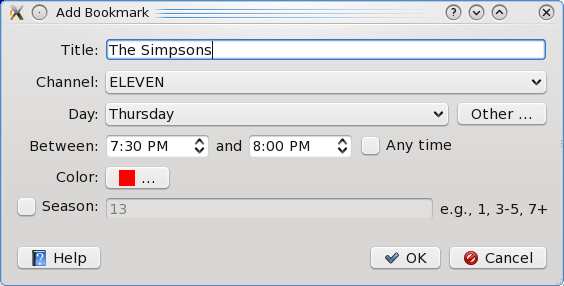
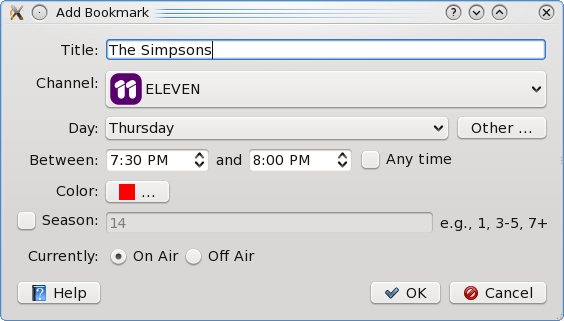
On-air/off-air indication in bookmarks

diff --git a/help/en/bookmarks.html b/help/en/bookmarks.html
@@ -73,20 +73,27 @@ Combined with the <b>7 Day Bookmark Outlook</b> feature,
 partial matches can make it easier to locate a show after it
 has moved to a different channel, day, or time.<p>
 
-<b>Show Failed Matches</b> on the <b>Bookmarks</b> menu will
-show bookmarks that fail to match the programme exactly with a
-strike-through of the bookmark's show title.  This can be used
-to notice when a show is no longer playing or it may have moved
-to another channel, day, or time:<p>
+If the bookmark is marked as <b>On Air</b> and the programme is
+no longer shown in its bookmarked timeslot, then the programme
+will be shown with a strike-through of the bookmark's show title:<p>
 
 <center>
 <img src="bookmark_failed.png">
 </center><p>
 
+You can look for partial matches to see if the show has moved
+to another channel or time.  If it has moved, then update the
+bookmark to reflect the new details.  If however the show is
+no longer on, but may return at a later date, then change the
+bookmark to <b>Off Air</b>.  When the show returns, it will
+be shown as follows:<p>
+
+<center>
+<img src="bookmark_returned.png">
+</center><p>
+
 <b>Organize Bookmarks</b> on the <b>Bookmarks</b> menu can be used
-to edit, delete, and create new bookmarks.  Individual bookmarks
-can be temporarily disabled for matching by unchecking the
-bookmark in the list.<p>
+to edit, delete, and create new bookmarks.
 
 <a href="index.html">Return to main index</a>
 

diff --git a/src/tvbookmark.cpp b/src/tvbookmark.cpp
@@ -23,7 +23,7 @@
 TvBookmark::TvBookmark()
     : m_dayOfWeek(TvBookmark::AnyDay)
     , m_dayOfWeekMask(0xFE)
-    , m_enabled(true)
+    , m_onair(true)
     , m_anyTime(false)
 {
 }
@@ -33,7 +33,7 @@ TvBookmark::TvBookmark(const TvBookmark &other)
     , m_channelId(other.channelId())
     , m_dayOfWeek(other.dayOfWeek())
     , m_dayOfWeekMask(other.dayOfWeekMask())
-    , m_enabled(other.isEnabled())
+    , m_onair(other.isOnAir())
     , m_anyTime(other.anyTime())
     , m_startTime(other.startTime())
     , m_stopTime(other.stopTime())
@@ -255,9 +255,6 @@ TvBookmark::Match TvBookmark::match
     TvBookmark::Match result = FullMatch;
     bool should = false;
 
-    if (!m_enabled)
-        return NoMatch;
-
     if (m_title.compare(programme->title(), Qt::CaseInsensitive) != 0) {
         if (!(options & NonMatching))
             return NoMatch;
@@ -326,6 +323,10 @@ TvBookmark::Match TvBookmark::match
     if (should && result != ShouldMatch)
         result = NoMatch;
 
+    // Off-air bookmarks don't show failed matches.
+    if (!m_onair && result == ShouldMatch)
+        result = NoMatch;
+
     // Match the season number.
     if (!m_seasons.isEmpty() && result != ShouldMatch &&
             result != NoMatch) {
@@ -371,12 +372,12 @@ void TvBookmark::load(QSettings *settings)
     } else {
         setDayOfWeek(dayOfWeek);
     }
-    m_enabled = settings->value(QLatin1String("enabled"), true).toBool();
     m_anyTime = settings->value(QLatin1String("anyTime"), false).toBool();
     m_startTime = QTime::fromString(settings->value(QLatin1String("startTime")).toString(), Qt::TextDate);
     m_stopTime = QTime::fromString(settings->value(QLatin1String("stopTime")).toString(), Qt::TextDate);
     m_color = QColor(settings->value(QLatin1String("color")).toString());
     setSeasons(settings->value(QLatin1String("seasons")).toString());
+    m_onair = settings->value(QLatin1String("onair"), true).toBool();
 }
 
 void TvBookmark::save(QSettings *settings)
@@ -387,10 +388,11 @@ void TvBookmark::save(QSettings *settings)
         settings->setValue(QLatin1String("dayOfWeek"), m_dayOfWeekMask | 0x0100);
     else
         settings->setValue(QLatin1String("dayOfWeek"), m_dayOfWeek);
-    settings->setValue(QLatin1String("enabled"), m_enabled);
+    settings->remove(QLatin1String("enabled")); // Obsolete
     settings->setValue(QLatin1String("anyTime"), m_anyTime);
     settings->setValue(QLatin1String("startTime"), m_startTime.toString(Qt::TextDate));
     settings->setValue(QLatin1String("stopTime"), m_stopTime.toString(Qt::TextDate));
     settings->setValue(QLatin1String("color"), m_color.name());
     settings->setValue(QLatin1String("seasons"), seasons());
+    settings->setValue(QLatin1String("onair"), m_onair);
 }

diff --git a/tests/tvbookmark/tst_tvbookmark.cpp b/tests/tvbookmark/tst_tvbookmark.cpp
@@ -72,7 +72,7 @@ void tst_TvBookmark::properties()
     QVERIFY(!b.stopTime().isValid());
     QVERIFY(!b.anyTime());
     QVERIFY(!b.color().isValid());
-    QVERIFY(b.isEnabled());
+    QVERIFY(b.isOnAir());
     QVERIFY(b.seasons().isEmpty());
     QVERIFY(b.seasonList().isEmpty());
 
@@ -88,7 +88,7 @@ void tst_TvBookmark::properties()
     b.setStopTime(QTime(17, 54, 32));
     b.setAnyTime(true);
     b.setColor(Qt::red);
-    b.setEnabled(false);
+    b.setOnAir(false);
     b.setSeasons(QLatin1String("1,3-5, 7+"));
 
     QCOMPARE(b.title(), QLatin1String("foo"));
@@ -101,7 +101,7 @@ void tst_TvBookmark::properties()
     QCOMPARE(b.color().red(), 255);
     QCOMPARE(b.color().blue(), 0);
     QCOMPARE(b.color().green(), 0);
-    QVERIFY(!b.isEnabled());
+    QVERIFY(!b.isOnAir());
     QCOMPARE(b.seasons(), QLatin1String("1,3-5,7+"));
     QVERIFY(b.seasonList() == list);
 
@@ -116,7 +116,7 @@ void tst_TvBookmark::properties()
     QCOMPARE(b2.color().red(), 255);
     QCOMPARE(b2.color().blue(), 0);
     QCOMPARE(b2.color().green(), 0);
-    QVERIFY(!b2.isEnabled());
+    QVERIFY(!b2.isOnAir());
     QCOMPARE(b2.seasons(), QLatin1String("1,3-5,7+"));
     QVERIFY(b2.seasonList() == list);
 }
@@ -390,9 +390,6 @@ void tst_TvBookmark::match()
     p.setStop(QDateTime::fromString(pstop, QLatin1String("yyyy-MM-dd hh:mm")));
 
     QCOMPARE(int(b.match(&p, TvBookmark::MatchOptions(options))), result);
-
-    b.setEnabled(false);
-    QCOMPARE(int(b.match(&p, TvBookmark::MatchOptions(options))), int(TvBookmark::NoMatch));
 }
 
 void tst_TvBookmark::dayOfWeek_data()

diff --git a/src/tvbookmarkmodel.cpp b/src/tvbookmarkmodel.cpp
@@ -110,20 +110,21 @@ QVariant TvBookmarkModel::data(const QModelIndex &index, int role) const
         default: break;
         }
     } else if (role == Qt::ForegroundRole) {
-        if (bookmark->isEnabled()) {
-            if (index.column() == MODEL_TITLE)
-                return QBrush(bookmark->color());
-        } else {
-            QWidget *w = qobject_cast<QWidget *>
-                (static_cast<const QObject *>(this)->parent());
-            return w->palette().brush(QPalette::Disabled, QPalette::WindowText);
-        }
+        if (index.column() == MODEL_TITLE)
+            return QBrush(bookmark->color());
     } else if (role == Qt::CheckStateRole) {
         if (index.column() == MODEL_CHECK) {
-            if (bookmark->isEnabled())
+            if (bookmark->isOnAir())
                 return int(Qt::Checked);
             else
                 return int(Qt::Unchecked);
+        }
+    } else if (role == Qt::ToolTipRole) {
+        if (index.column() == MODEL_CHECK) {
+            if (bookmark->isOnAir())
+                return tr("On Air");
+            else
+                return tr("Off Air");
         }
     }
     return QVariant();
@@ -140,7 +141,7 @@ bool TvBookmarkModel::setData
     if (row < 0 || row >= m_bookmarks.size())
         return false;
     TvBookmark *bookmark = m_bookmarks.at(row);
-    bookmark->setEnabled(value.toInt() == int(Qt::Checked));
+    bookmark->setOnAir(value.toInt() == int(Qt::Checked));
     return true;
 }
 

diff --git a/src/mainwindow.cpp b/src/mainwindow.cpp
@@ -192,7 +192,8 @@ MainWindow::MainWindow(QWidget *parent)
     settings.beginGroup(QLatin1String("View"));
     m_fontMultiplier = qreal(settings.value(QLatin1String("zoom"), 1.0).toDouble());
     actionShowPartialMatches->setChecked(settings.value(QLatin1String("partial"), true).toBool());
-    actionShowFailedMatches->setChecked(settings.value(QLatin1String("failed"), false).toBool());
+    //actionShowFailedMatches->setChecked(settings.value(QLatin1String("failed"), false).toBool());
+    actionShowFailedMatches->setChecked(true);
     action7DayOutlook->setChecked(settings.value(QLatin1String("outlook7days"), false).toBool());
     actionMultiChannel->setChecked(settings.value(QLatin1String("allchannels"), false).toBool());
     settings.endGroup();
@@ -221,8 +222,9 @@ MainWindow::~MainWindow()
     settings.setValue(QLatin1String("zoom"), m_fontMultiplier);
     settings.setValue(QLatin1String("partial"),
                       actionShowPartialMatches->isChecked());
-    settings.setValue(QLatin1String("failed"),
-                      actionShowFailedMatches->isChecked());
+    //settings.setValue(QLatin1String("failed"),
+    //                  actionShowFailedMatches->isChecked());
+    settings.remove(QLatin1String("failed"));
     settings.setValue(QLatin1String("outlook7days"),
                       action7DayOutlook->isChecked());
     settings.setValue(QLatin1String("allchannels"),

diff --git a/src/tvprogrammemodel.cpp b/src/tvprogrammemodel.cpp
@@ -26,9 +26,11 @@ TvProgrammeModel::TvProgrammeModel(QObject *parent)
     , m_channel(0)
     , m_bookmarkIcon(QLatin1String(":/images/bookmark.png"))
     , m_tickIcon(QLatin1String(":/images/tick.png"))
+    , m_returnedIcon(QLatin1String(":/images/ktip.png"))
 {
     m_bookmarkIcon = m_bookmarkIcon.scaled(16, 16, Qt::IgnoreAspectRatio, Qt::SmoothTransformation);
     m_tickIcon = m_tickIcon.scaled(16, 16, Qt::IgnoreAspectRatio, Qt::SmoothTransformation);
+    m_returnedIcon = m_returnedIcon.scaled(16, 16, Qt::IgnoreAspectRatio, Qt::SmoothTransformation);
 }
 
 TvProgrammeModel::~TvProgrammeModel()
@@ -115,6 +117,8 @@ QVariant TvProgrammeModel::data(const QModelIndex &index, int role) const
         if (index.column() == ColumnTime) {
             if (prog->isTicked())
                 return m_tickIcon;
+            if (prog->bookmark() && !prog->bookmark()->isOnAir())
+                return m_returnedIcon;
             if (prog->color().isValid())
                 return m_bookmarkIcon;
         } else if (index.column() == ColumnChannel) {

diff --git a/src/tvbookmark.h b/src/tvbookmark.h
@@ -76,8 +76,8 @@ public:
     QColor color() const { return m_color; }
     void setColor(const QColor &color) { m_color = color; }
 
-    bool isEnabled() const { return m_enabled; }
-    void setEnabled(bool value) { m_enabled = value; }
+    bool isOnAir() const { return m_onair; }
+    void setOnAir(bool value) { m_onair = value; }
 
     QString seasons() const;
     void setSeasons(const QString &seasons);
@@ -116,7 +116,7 @@ private:
     QString m_channelId;
     int m_dayOfWeek;
     int m_dayOfWeekMask;
-    bool m_enabled;
+    bool m_onair;
     bool m_anyTime;
     QTime m_startTime;
     QTime m_stopTime;

diff --git a/src/bookmarkitemeditor.cpp b/src/bookmarkitemeditor.cpp
@@ -164,6 +164,7 @@ void BookmarkItemEditor::copyFromBookmark(const TvBookmark *bookmark)
     setColor(bookmark->color());
     setSeasons(bookmark->seasons());
     setSeasonsEnabled(!bookmark->seasonList().isEmpty());
+    setOnAir(bookmark->isOnAir());
 }
 
 void BookmarkItemEditor::copyToBookmark(TvBookmark *bookmark)
@@ -179,6 +180,7 @@ void BookmarkItemEditor::copyToBookmark(TvBookmark *bookmark)
         bookmark->setSeasons(seasons());
     else
         bookmark->setSeasons(QString());
+    bookmark->setOnAir(isOnAir());
 }
 
 void BookmarkItemEditor::changeColor()

diff --git a/src/bookmarkitemeditor.h b/src/bookmarkitemeditor.h
@@ -59,6 +59,15 @@ public:
     bool seasonsEnabled() const { return seasonEnable->isChecked(); }
     void setSeasonsEnabled(bool value) { seasonEnable->setChecked(value); }
 
+    bool isOnAir() const { return onAirButton->isChecked(); }
+    void setOnAir(bool value)
+    {
+        if (value)
+            onAirButton->setChecked(true);
+        else
+            offAirButton->setChecked(true);
+    }
+
     void copyFromBookmark(const TvBookmark *bookmark);
     void copyToBookmark(TvBookmark *bookmark);
 

diff --git a/src/tvprogrammemodel.h b/src/tvprogrammemodel.h
@@ -54,6 +54,7 @@ private:
     QDate m_date;
     QPixmap m_bookmarkIcon;
     QPixmap m_tickIcon;
+    QPixmap m_returnedIcon;
 };
 
 #endif
